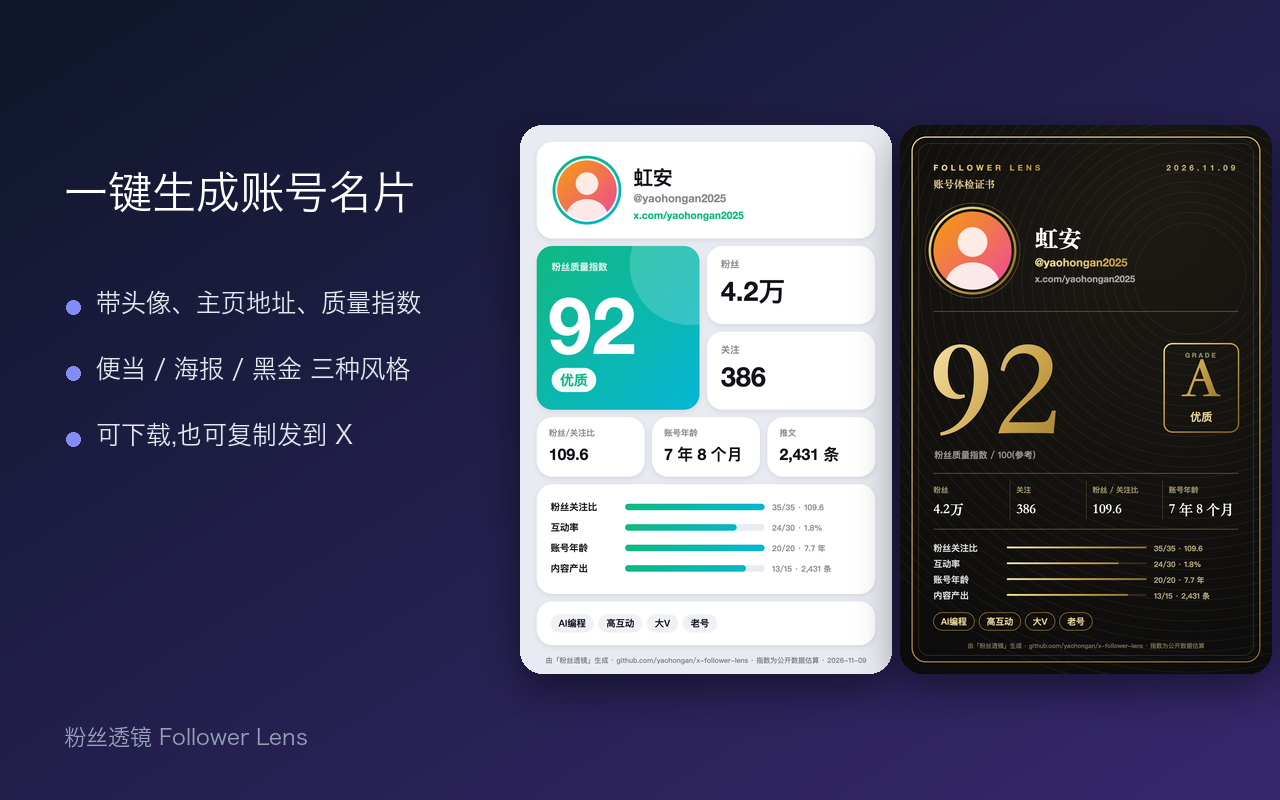
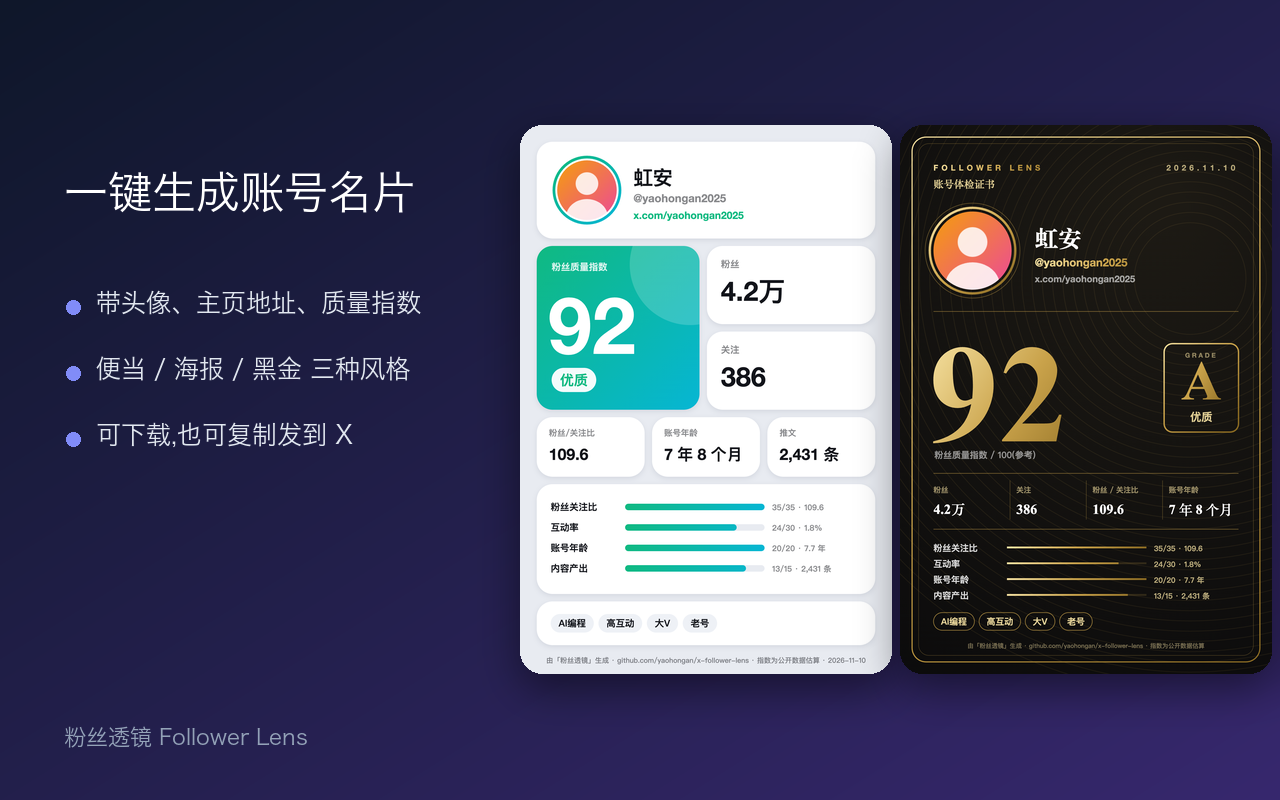
v0.22.2: 修名片数据错位——衬线字体改用 Times New Roman(等高数字,避免老式数字上冲下沉导致大数字压到下面的字、一排数字高低不齐),数值格放不下时先缩字号再省略("1 年 7 个月" 不再被截成 "1 年 7 …"),海报风格 100 分时数字缩小不再压住标签;素材图同步

diff --git a/card.js b/card.js
@@ -10,9 +10,17 @@
   const ell = (c, text, maxW) => { if (c.measureText(text).width <= maxW) return text; let t = text; while (t.length > 1 && c.measureText(t + "…").width > maxW) t = t.slice(0, -1); return t + "…"; };
   // ================= 新风格:海报 / 便当 / 年度 / 黑金 =================
   const NUM = '"SF Pro Display","Helvetica Neue","Inter","Segoe UI",' + FONT;
-  const SERIF = '"Songti SC","STSong","Noto Serif SC","Source Han Serif SC",Georgia,serif';
+  // 衬线字体:数字必须是"等高数字"(lining figures)。Songti/Georgia 的数字是"老式数字"(有的上冲有的下沉),大数字会和下面的字叠在一起、一排数字高低不齐,
+  // 所以拉丁字母和数字用 Times New Roman(Mac / Windows 都有),中文自动落到宋体
+  const SERIF = '"Times New Roman","Times","Songti SC","STSong","Noto Serif SC","Source Han Serif SC",serif';
   const F = (w, s, fam) => `${w} ${s}px ${fam || FONT}`;
   const spaced = (c, px, fn) => { c.letterSpacing = px + "px"; fn(); c.letterSpacing = "0px"; };
+  // 放得下就原样,放不下先缩字号(到 minSize),还不行再用省略号。返回要画的文字,字体已设好
+  const fitText = (c, text, maxW, weight, size, fam, minSize) => {
+    let s = size; c.font = F(weight, s, fam);
+    while (s > minSize && c.measureText(text).width > maxW) { s -= 1; c.font = F(weight, s, fam); }
+    return ell(c, text, maxW);
+  };
   const ageS = (d) => d.ageText.split(" · ")[1] || d.ageText;
   const grade = (s) => (s >= 80 ? "A" : s >= 60 ? "B" : s >= 40 ? "C" : "D");
   const circleImg = (c, data, x, y, r) => {
@@ -48,11 +56,14 @@
     c.fillStyle = sub; c.font = F(600, 26, NUM); c.fillText("@" + d.handle, 52, 232);
     c.fillStyle = ink; c.font = F(700, 22, NUM); c.fillText(ell(c, "x.com/" + d.handle, 440), 52, 268);
     // 超大指数
-    c.fillStyle = ink; c.font = F(900, 360, NUM); c.textAlign = "left";
+    c.fillStyle = ink; c.textAlign = "left";
+    c.font = F(900, 360, NUM);
+    const w0 = c.measureText(String(sc)).width, size = w0 > 470 ? Math.floor(360 * 470 / w0) : 360;   // 三位数(100)会太宽,压到档位标签,按宽度缩小
+    c.font = F(900, size, NUM);
     const nw = c.measureText(String(sc)).width;
     c.fillText(String(sc), 38, 566);
     c.fillStyle = a1; c.fillRect(52, 592, Math.min(nw, 420), 14);
-    c.fillStyle = ink; c.font = F(800, 34, NUM); c.fillText("/ 100", 52 + nw + 6 > 560 ? 560 : 52 + nw + 6, 566);
+    c.fillStyle = ink; c.font = F(800, 34, NUM); c.fillText("/ 100", Math.min(52 + nw + 6, 560), 566);
     // 档位标签(实心色块)
     c.font = F(900, 40, FONT); const lw = c.measureText(d.score.label).width + 56;
     const lx = W - 52 - lw, ly = 400;
@@ -65,7 +76,7 @@
     cells.forEach(([k, v], i) => {
       const x = 52 + (i % 2) * cw, y = 642 + Math.floor(i / 2) * 108;
       c.textAlign = "left"; c.fillStyle = sub; c.font = F(600, 18, FONT); c.fillText(k, x + (i % 2 ? 26 : 0), y + 36);
-      c.fillStyle = ink; c.font = F(800, 46, NUM); c.fillText(ell(c, String(v), cw - 40), x + (i % 2 ? 26 : 0), y + 90);
+      c.fillStyle = ink; c.fillText(fitText(c, String(v), cw - 40, 800, 46, NUM, 28), x + (i % 2 ? 26 : 0), y + 90);
       if (i % 2 === 0) c.fillRect(x + cw - 1, y + 14, 1.5, 84);
     });
     c.fillStyle = line; c.fillRect(52, 642 + 108, W - 104, 1.5);
@@ -113,14 +124,14 @@
     [["粉丝", d.followers], ["关注", d.following]].forEach(([k, v], i) => {
       const y = y2 + i * (rh + G); tile(rx, y, rw, rh);
       c.fillStyle = sub; c.font = F(600, 20, FONT); c.fillText(k, rx + 30, y + 46);
-      c.fillStyle = ink; c.font = F(800, 58, NUM); c.fillText(ell(c, String(v), rw - 60), rx + 30, y + 118);
+      c.fillStyle = ink; c.fillText(fitText(c, String(v), rw - 60, 800, 58, NUM, 32), rx + 30, y + 118);
     });
     // 三小格
     const y3 = y2 + sh + G, tw3 = (W - 2 * P - 2 * G) / 3, th3 = 128;
     [["粉丝/关注比", d.ratio], ["账号年龄", ageS(d)], ["推文", d.score.parts[3].note]].forEach(([k, v], i) => {
       const x = P + i * (tw3 + G); tile(x, y3, tw3, th3, "#fff");
       c.fillStyle = sub; c.font = F(600, 18, FONT); c.fillText(k, x + 26, y3 + 40);
-      c.fillStyle = ink; c.font = F(800, 34, NUM); c.fillText(ell(c, String(v), tw3 - 44), x + 26, y3 + 92);
+      c.fillStyle = ink; c.fillText(fitText(c, String(v), tw3 - 44, 800, 34, NUM, 20), x + 26, y3 + 92);
     });
     // 得分格
     const y4 = y3 + th3 + G, h4 = 236; tile(P, y4, W - 2 * P, h4);
@@ -177,7 +188,7 @@
     cells.forEach(([k, v], i) => {
       const x = 72 + i * cw;
       c.textAlign = "left"; c.fillStyle = "rgba(247,227,163,0.6)"; c.font = F(600, 16, FONT); c.fillText(k, x + (i ? 14 : 0), 790);
-      c.fillStyle = "#fff"; c.font = F(700, 30, SERIF); c.fillText(ell(c, String(v), cw - 22), x + (i ? 14 : 0), 836);
+      c.fillStyle = "#fff"; c.fillText(fitText(c, String(v), cw - 24, 700, 30, SERIF, 18), x + (i ? 14 : 0), 836);
       if (i) { c.fillStyle = "rgba(201,162,74,0.35)"; c.fillRect(x, 764, 1.2, 84); }
     });
     c.fillStyle = "rgba(201,162,74,0.5)"; c.fillRect(72, 868, W - 144, 1.5);

diff --git a/store/上架填表助手.html b/store/上架填表助手.html
@@ -18,7 +18,7 @@ code{background:rgba(127,127,127,.15);padding:1px 6px;border-radius:5px;font-siz
 <div class="step"><h2><span>1</span>打开后台,上传安装包</h2>
 <ol><li>点这里打开:<a href="https://chrome.google.com/webstore/devconsole" target="_blank">Chrome 应用商店开发者后台</a>(确认登录的是 yaohongan2021 那个账号)</li>
 <li>如果后台已经有"粉丝透镜"(之前提交过旧版):点进它 → 左侧 <b>"软件包"</b> → <b>"上传新软件包"</b>。<b>若状态是"审核中"就不能上传</b>,要等出结果,或先在状态旁撤回审核。没有就点 <b>"新增商品"</b></li>
-<li>把这个文件拖进去:<code>x-follower-lens-0.22.1.zip</code>(就在这个文件夹里)</li></ol></div>
+<li>把这个文件拖进去:<code>x-follower-lens-0.22.2.zip</code>(就在这个文件夹里)</li></ol></div>
 
 <div class="step"><h2><span>2</span>"商品详情"页</h2><p class="hint">没有写到的格子,保持默认。</p>
 <div class="f"><div class="fh"><b>名称</b><button onclick="cp(0,this)">复制</button></div><pre id="v0"></pre></div><div class="f"><div class="fh"><b>摘要(简短说明)</b><button onclick="cp(1,this)">复制</button></div><pre id="v1"></pre></div><div class="f"><div class="fh"><b>详细说明(中文)</b><button onclick="cp(2,this)">复制</button></div><pre id="v2"></pre></div>
